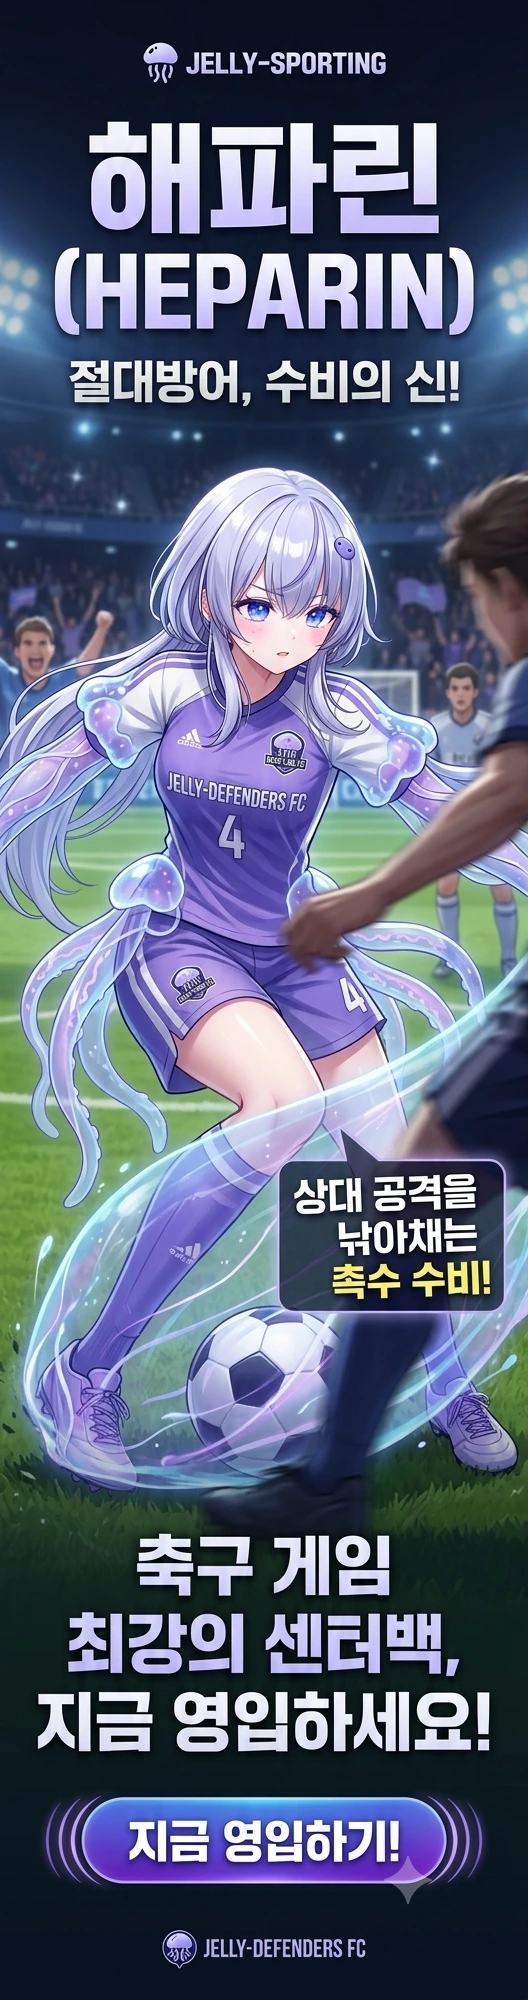
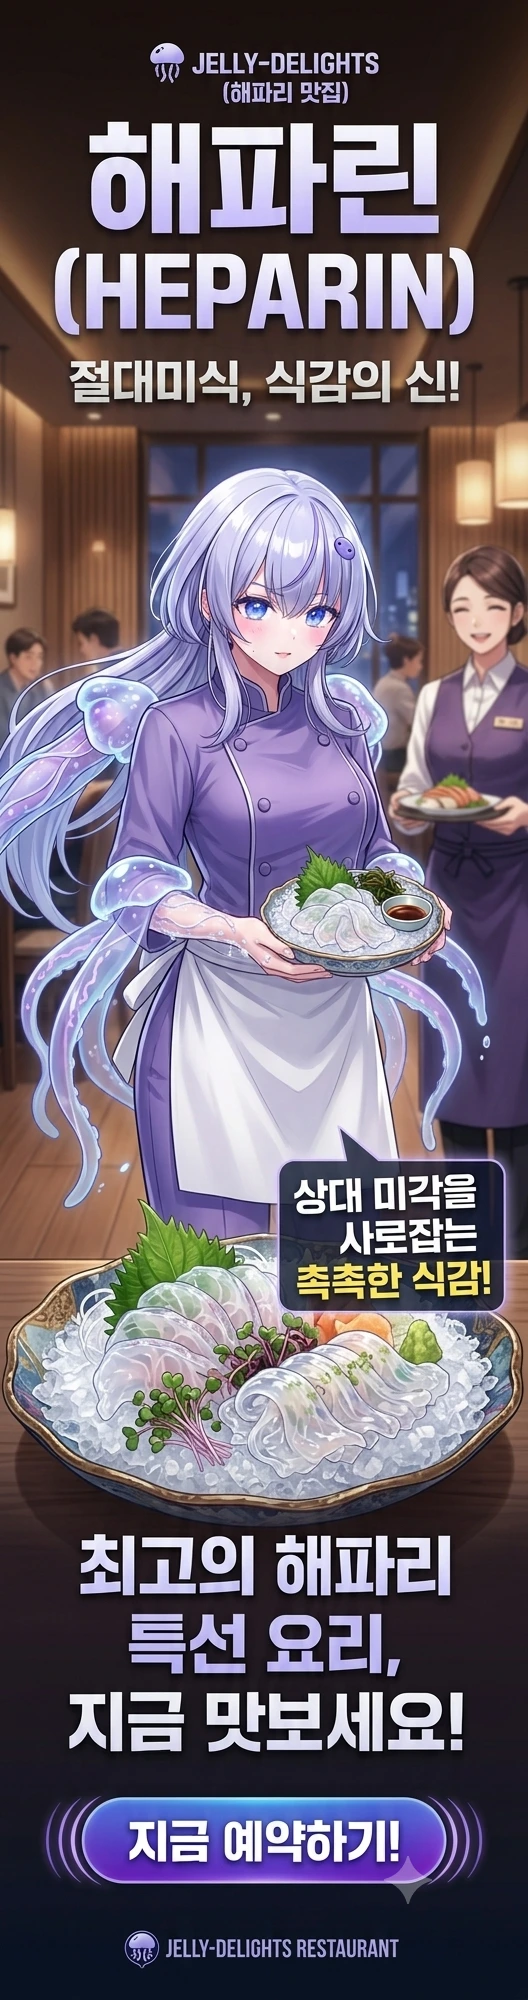
feat: add ad

diff --git a/src/web/fakeAdsData.ts b/src/web/fakeAdsData.ts
@@ -83,6 +83,6 @@ export const fakeAds: FakeAd[] = [
     id: "haeparin",
     image: "/fake-ads/ad-haeparin.webp",
     href: "https://vod.sooplive.com/player/206811383/catch?szSearchTnoList=206811383-206811153",
-    label: "해피해피해파린🪼",
+    label: "해피해피해파린🪼 내가 열수 있다는 말이 안된다 말다고 기탕세해드리는 거 아닐까 이게 제작자군 해달라는 것도 아닌 것 같은데 광고 몇 개만 있는지 한번 볼 수 있나요? 이성이 잡혀야 하지 않을까 싶더니 근데 그 되게 좋았던 것 같아요. 갑자기 바로 기초 좀 꾸려주셔가지고 같이 경기를 쓸 수 있어서 계속 좋았더니 광고 없는 것 같은데 난 광고한 모할 수 있어 이거 헤피살 이런가 이거해드렸으니까 제작하는 대각자님을 부르기 위한 그 비밀의 그 모습이었다. 제작사님을 통화하기 위한 서핑세리가 아닌 아니긴 한데 아니었어 아니요. 이 사이트를 틀어서 카드 오십시오 아니야 방송화가 여러분 내일 와요. 맞아 맞아 그 감기 모일 경기학도면서 어떻게 좀 더 이십일가가 이것저것 하다 보니까 시장이 빨리 가더라고요. 원래는 혼자서 강동하고 막 혼자 있지 모니터링하거든요. 더나서 오늘은 여덟시에 커피 스트라이터 온라인 생각해요. 하나하나 대박이도손하고 다시 최근 하셨죠. 삼성 일선에 제가 쓰고 답에서 감사합니다. 옆팔이 이렇게 언젠가 만명을 모아가지고 남을 수 있는 게 맞아 계속 오르잖아요. 대부분 다 그 올라가신 분들 보면은 다음 다 일만에 쓰시면 넘어갔어요. 아마도 그런 거 보니까 지금 이제 두개가 됐으니까 몇년 있어야 될지 어떻게 해서 그런 일은 일어나지 않아요. 그러자 되는데 어떻게 해야 되냐면 내년 색요돼서 막 일만 하더라도 계속인지 많았어요.",
   },
 ];
